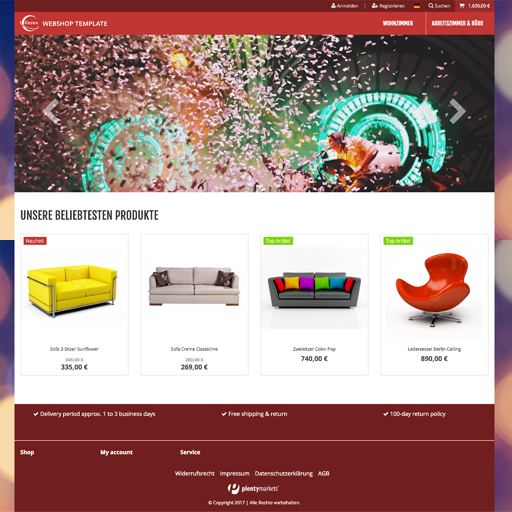
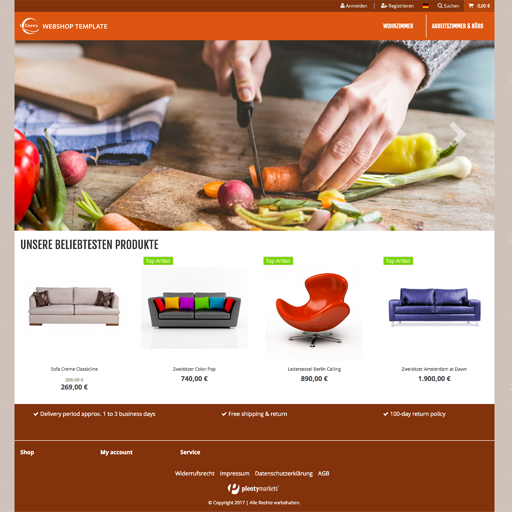
update meta data

diff --git a/meta/documents/user_guide_de.md b/meta/documents/user_guide_de.md
@@ -1,11 +1,11 @@
-# Ceres Colorful – Das Ceres Plugin in Colorful-Style
+# Ceres Food – Das Ceres Plugin in Food-Style
 
 <div class="container-toc"></div>
 
-## Colorful Theme aktivieren
+## Food Theme aktivieren
 
-Im plentymarkets Backend in der Plugin-Liste das Colorful Plugin in Productive bereitstellen und den Mandant zuweisen.
-Anschließend im Tab "Content" im Bereich "CeresColorful" den Haken bei "Template: Style" setzen, speichern, fertig!
+Im plentymarkets Backend in der Plugin-Liste das Food Plugin in Productive bereitstellen und den Mandant zuweisen.
+Anschließend im Tab "Content" im Bereich "CeresFood" den Haken bei "Template: Style" setzen, speichern, fertig!
 
 <div class="alert alert-info" role="alert">
     Sie benötigen das Ceres und IO Plugin als Basis

diff --git a/meta/documents/user_guide_en.md b/meta/documents/user_guide_en.md
@@ -1,10 +1,10 @@
-# Ceres Colorful – Ceres Plugin in Colorful-Style
+# Ceres Food – Ceres Plugin in Food-Style
 
 <div class="container-toc"></div>
 
-## Activate Colorful Theme
+## Activate Food Theme
 
-Go to plentymarkets Backend Plugin Area. You have to provide the Colorful theme in productive and assign the client (store). Switch to "Content" tab and check the "Template: Style" entry in "CeresColorful" section. Save, finished!
+Go to plentymarkets Backend Plugin Area. You have to provide the Food theme in productive and assign the client (store). Switch to "Content" tab and check the "Template: Style" entry in "CeresFood" section. Save, finished!
 
 <div class="alert alert-info" role="alert">
     Ceres and IO Plugin are required.

diff --git a/meta/documents/changelog_de.md b/meta/documents/changelog_de.md
@@ -1,8 +1,8 @@
-# Release Notes für Colorful Theme
+# Release Notes für Food Theme
 
 ## v1.0.0 Beta-Status (2017-02-28)
 
 ### Funktionen
 - basiert auf dem Standard-Ceres
 - Komplett Update-fähig
-- Redesign des Ceres in Colorful-Style
+- Redesign des Ceres in Food-Style

diff --git a/meta/documents/changelog_en.md b/meta/documents/changelog_en.md
@@ -1,4 +1,4 @@
-# Release Notes for Colorful Ceres
+# Release Notes for Food Ceres
 
 ## v1.0.0 Beta-Status (2017-02-28)
 
@@ -6,4 +6,4 @@
 
 - based on basic Ceres Plugin
 - Completley Updatable
-- Redesigned Ceres in Colorful-Style
+- Redesigned Ceres in Food-Style
